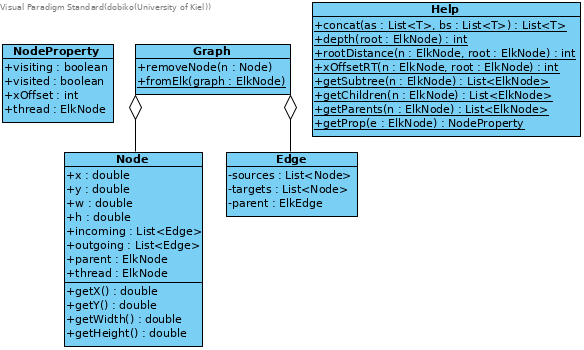
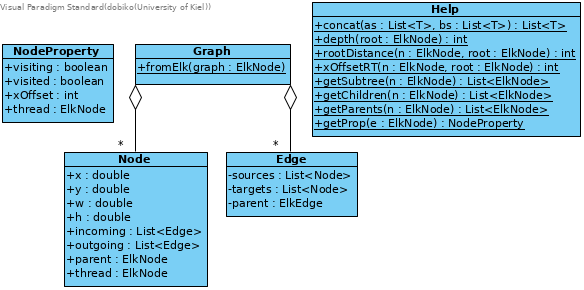
Update Class Diagrams

diff --git a/README.md b/README.md
@@ -4,6 +4,8 @@
 
 I moved the graph input format subsection from the technical section to the user guide because the user needs to know what kinds of graphs they can load.
 
+Class diagrams in this Documentation will not include most generated methods in an efford to keep the diagrams in a readable size.
+
 ## User Guide
 
 ### Startup
